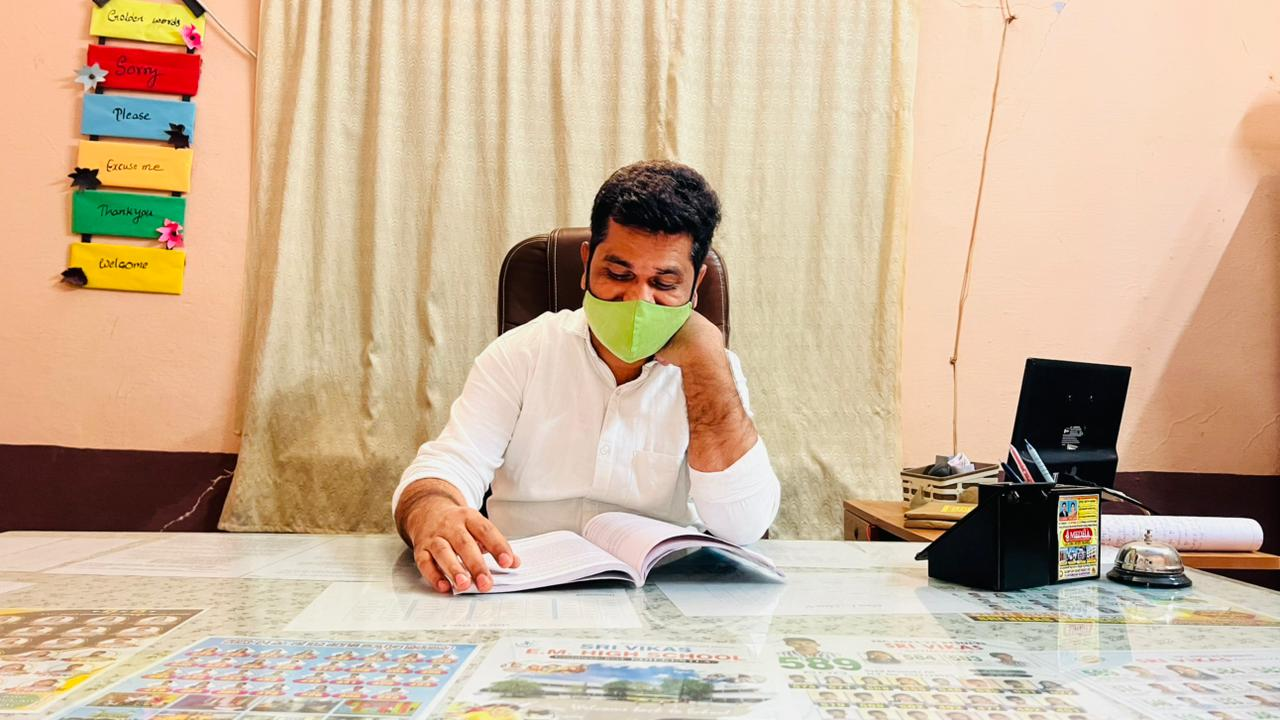
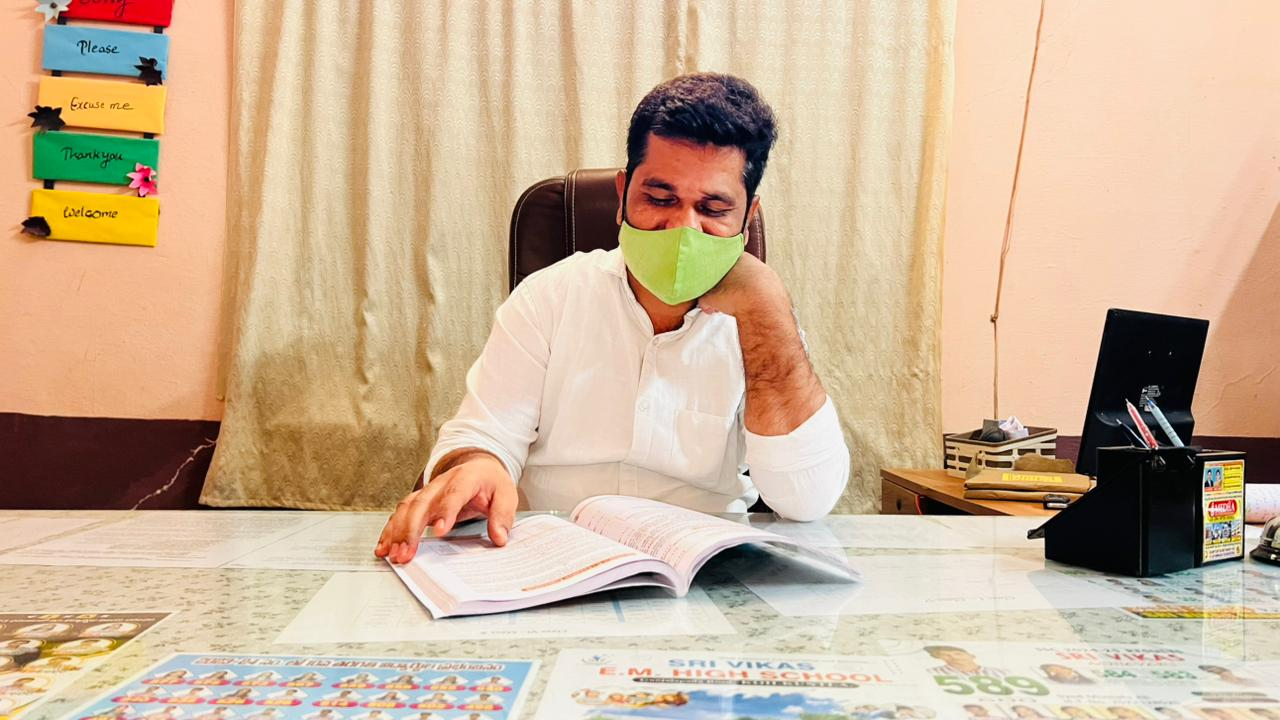
staff deatils added

diff --git a/src/pages/About.jsx b/src/pages/About.jsx
@@ -1,9 +1,12 @@
+import { useState } from 'react'
 import { motion } from 'framer-motion'
-import { FaGraduationCap, FaTrophy, FaHeart, FaStar, FaBullseye, FaEye, FaHandshake } from 'react-icons/fa'
+import { FaGraduationCap, FaTrophy, FaHeart, FaStar, FaBullseye, FaEye, FaHandshake, FaTimes } from 'react-icons/fa'
 import AnimatedSection from '../components/AnimatedSection'
 import StatsCounter from '../components/StatsCounter'
 
 const About = () => {
+  const [selectedMember, setSelectedMember] = useState(null)
+
   const values = [
     { icon: FaGraduationCap, title: 'Excellence', description: 'Striving for the highest standards in academics and character.' },
     { icon: FaHeart, title: 'Compassion', description: 'Fostering empathy and kindness in every interaction.' },
@@ -18,9 +21,46 @@ const About = () => {
       image: '/images/school/correspondent.jpg',
       alt: 'Sri Vikas High School correspondent at office desk',
     },
-    { name: 'Vice Principal', role: 'Vice Principal', placeholder: 'VP' },
-    { name: 'Academic Head', role: 'Head of Academics', placeholder: 'AH' },
-    { name: 'Sports Director', role: 'Director of Sports', placeholder: 'SD' },
+    {
+      name: 'Principal',
+      role: 'Principal',
+      image: '/images/school/principal.jpg',
+      alt: 'Sri Vikas High School principal',
+    },
+    {
+      name: 'Managing Director',
+      role: 'Managing Director',
+      image: '/images/school/academic-head.jpg',
+      alt: 'Sri Vikas High School managing director',
+    },
+    {
+      name: 'Maths Teacher',
+      role: 'Maths Teacher',
+      image: '/images/school/maths-teacher.jpg',
+      alt: 'Sri Vikas High School maths teacher',
+      imageFit: 'contain',
+    },
+    {
+      name: 'Telugu Sir',
+      role: 'Telugu Teacher',
+      image: '/images/school/telugu-sir.jpg',
+      alt: 'Sri Vikas High School Telugu teacher',
+      imagePosition: 'top',
+      imageFit: 'contain',
+    },
+    {
+      name: 'Physics Teacher',
+      role: 'Physics Teacher',
+      image: '/images/school/physics-teacher.jpg',
+      alt: 'Sri Vikas High School physics teacher',
+    },
+    {
+      name: 'Physical Education Teacher',
+      role: 'Physical Education Teacher',
+      image: '/images/school/physical-education-teacher.jpg',
+      alt: 'Sri Vikas High School physical education teacher',
+      imageFit: 'contain',
+    },
   ]
 
   const achievements = [
@@ -166,9 +206,21 @@ const About = () => {
             {team.map((member, i) => (
               <AnimatedSection key={i} delay={i * 0.1}>
                 <motion.div whileHover={{ y: -8 }} className="bg-white rounded-3xl overflow-hidden shadow-lg text-center">
-                  <div className="h-48 bg-gradient-to-br from-primary to-primary-light flex items-center justify-center">
+                  <div className={`h-48 flex items-center justify-center ${member.imageFit === 'contain' ? 'bg-white p-2' : 'bg-gradient-to-br from-primary to-primary-light'}`}>
                     {member.image ? (
-                      <img src={member.image} alt={member.alt || member.name} className="w-full h-full object-cover" />
+                      <button
+                        type="button"
+                        className="w-full h-full cursor-zoom-in"
+                        onClick={() => setSelectedMember(member)}
+                        aria-label={`Open ${member.name} image`}
+                      >
+                        <img
+                          src={member.image}
+                          alt={member.alt || member.name}
+                          className={`w-full h-full ${member.imageFit === 'contain' ? 'object-contain' : 'object-cover'}`}
+                          style={{ objectPosition: member.imagePosition || 'center' }}
+                        />
+                      </button>
                     ) : (
                       <span className="text-5xl font-bold text-white/50">{member.placeholder}</span>
                     )}
@@ -183,6 +235,41 @@ const About = () => {
           </div>
         </div>
       </section>
+
+      {selectedMember && (
+        <motion.div
+          initial={{ opacity: 0 }}
+          animate={{ opacity: 1 }}
+          exit={{ opacity: 0 }}
+          className="fixed inset-0 bg-black/80 z-50 flex items-center justify-center p-4"
+          onClick={() => setSelectedMember(null)}
+        >
+          <motion.div
+            initial={{ scale: 0.9 }}
+            animate={{ scale: 1 }}
+            className="relative max-w-4xl w-full max-h-[85vh]"
+            onClick={(e) => e.stopPropagation()}
+          >
+            <img
+              src={selectedMember.image}
+              alt={selectedMember.alt || selectedMember.name}
+              className="w-full max-h-[85vh] object-contain rounded-3xl bg-black"
+            />
+            <div className="absolute left-0 right-0 bottom-0 p-5 bg-gradient-to-t from-black/80 via-black/40 to-transparent rounded-b-3xl">
+              <h3 className="text-2xl font-bold text-white">{selectedMember.name}</h3>
+              <p className="text-white/80 text-sm">{selectedMember.role}</p>
+            </div>
+            <button
+              type="button"
+              onClick={() => setSelectedMember(null)}
+              className="absolute top-4 right-4 w-10 h-10 bg-white/20 rounded-full flex items-center justify-center text-white hover:bg-white/40 transition-colors cursor-pointer"
+              aria-label="Close image preview"
+            >
+              <FaTimes />
+            </button>
+          </motion.div>
+        </motion.div>
+      )}
 
       {/* Achievements */}
       <section className="py-20 bg-white">

diff --git a/src/pages/Gallery.jsx b/src/pages/Gallery.jsx
@@ -186,6 +186,27 @@ const Gallery = () => {
       image: '/images/school/sports-kabaddi-session.jpg',
     },
     {
+      id: 43,
+      category: 'events',
+      title: 'Cultural Krishna Performance',
+      description: 'Students performing in traditional costume during school event',
+      image: '/images/school/event-cultural-krishna-group.jpg',
+    },
+    {
+      id: 44,
+      category: 'events',
+      title: 'Cultural Girls Group',
+      description: 'Students and teacher during cultural stage performance',
+      image: '/images/school/event-cultural-girls-group.jpg',
+    },
+    {
+      id: 45,
+      category: 'events',
+      title: 'Traditional Dance Performance',
+      description: 'Students presenting a vibrant dance act on event stage',
+      image: '/images/school/event-cultural-dance-group.jpg',
+    },
+    {
       id: 26,
       category: 'achievements',
       title: 'Medal Winner - Boy',
